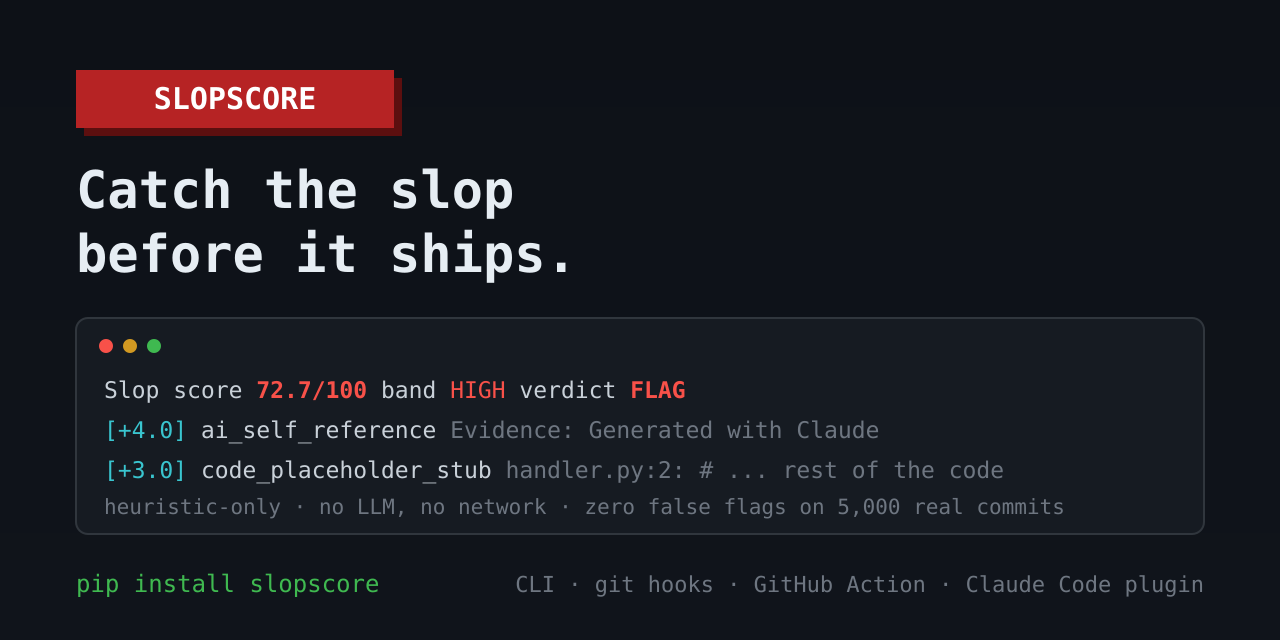
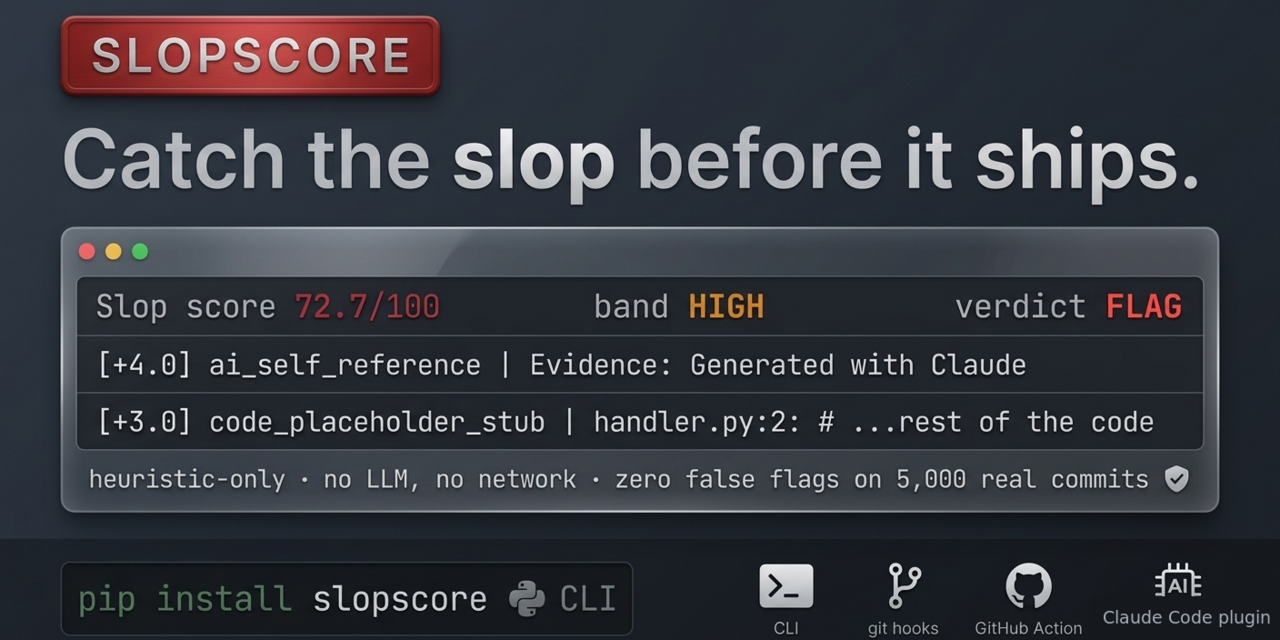
Give the README a hero card and reuse it as the social preview

diff --git a/README.md b/README.md
@@ -5,7 +5,7 @@
 [![Python](https://img.shields.io/badge/python-3.11%2B-blue)](https://www.python.org/downloads/)
 [![License: MIT](https://img.shields.io/badge/license-MIT-blue)](https://github.com/koopatroopa/slopscore/blob/main/LICENSE)
 
-### **_Catch the slop before it ships._**
+![slopscore - catch the slop before it ships](https://raw.githubusercontent.com/koopatroopa/slopscore/main/assets/social-preview.png)
 
 AI tools leave fingerprints — em-dashes, a rocket 🚀 emoji no human would
 ever type by hand, stray `Co-Authored-By: Claude` trailers,